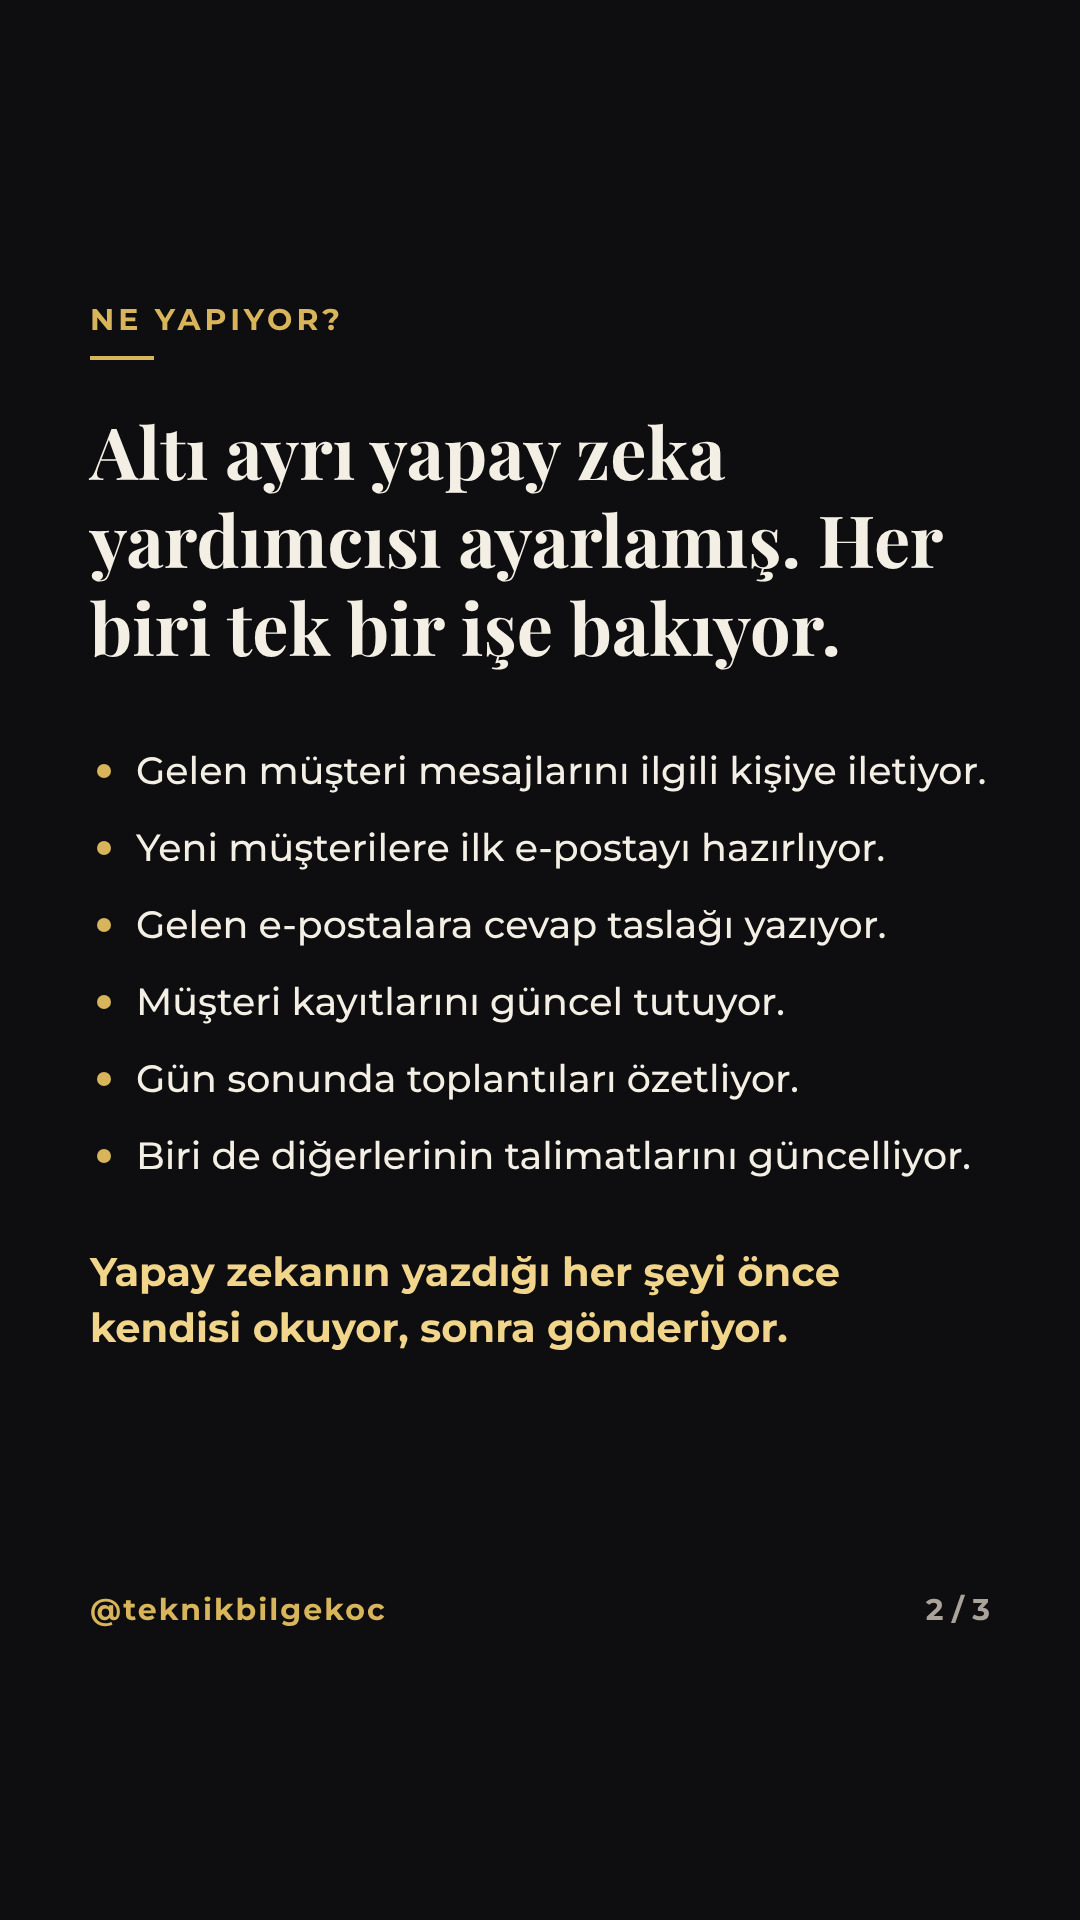
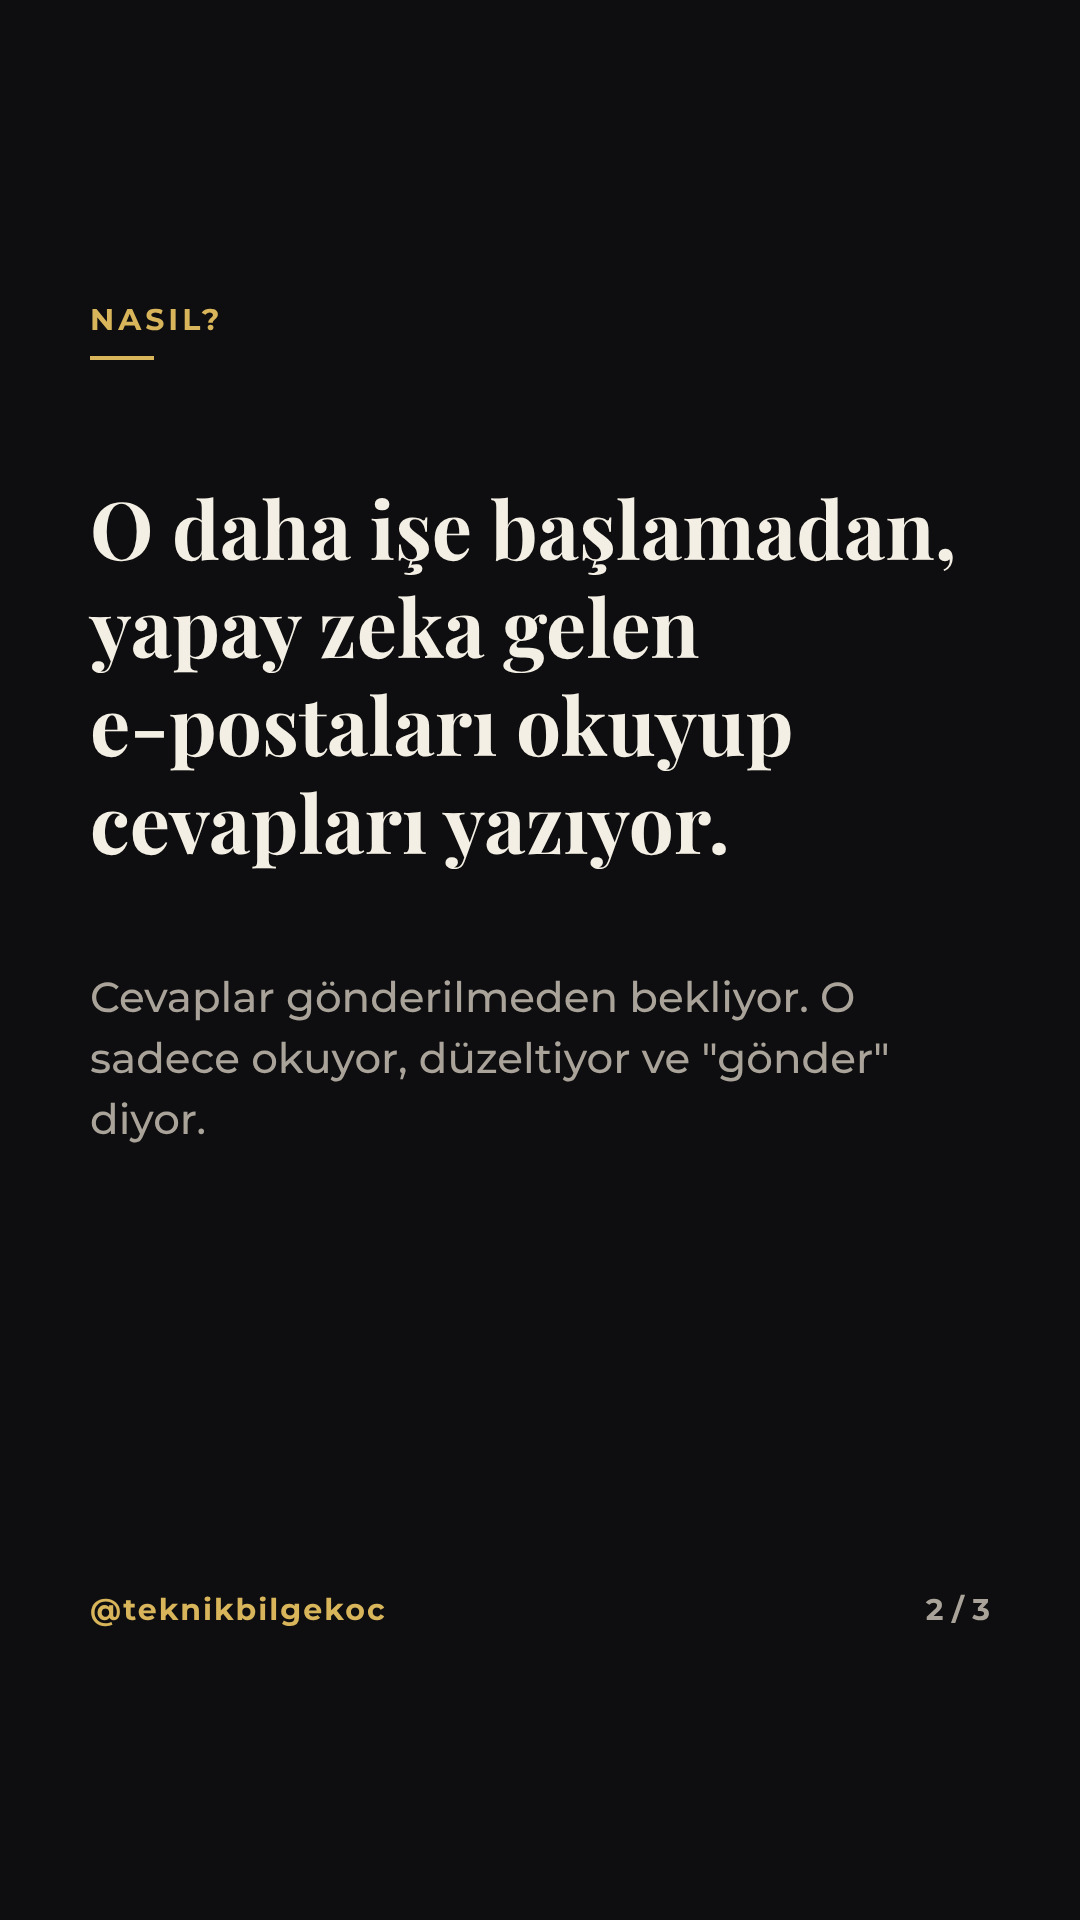
Hikâye denemesi 2. sürüm: kare başına tek fikir, görsel ve liste yok
Claude-Session: https://claude.ai/code/session_01JFwWeH33W4M7iAanRYpxoH

Changed region(s): [[0.0611, 0.2188, 0.8861, 0.625], [0.0917, 0.6562, 0.7944, 0.7188], [0.1222, 0.1562, 0.3056, 0.1875]]

diff --git a/2026-10-18-hikaye-deneme/h3.js b/2026-10-18-hikaye-deneme/h3.js
@@ -1,9 +1,9 @@
 async function build() {
-  await fontsReady(); sayfa('SENİN İŞİNE YARAR MI?', '3 / 3');
-  let y = baslik('Yazılımcı değil, yine de kendisi ayarlamış.', 480);
-  y = para('Ama kolay olmamış. Yazılanlar istediği gibi olana kadar yüzlerce kez düzeltmiş, bazı adımlar teknik bilgi istemiş. Sistem hâlâ deneme sürümünde.', 90, y + 50, { size: 40, color: C.muted, lh: 1.45 });
-  el('rect', { x: 90, y: y + 80, width: 900, height: 300, rx: 28, fill: C.card, stroke: C.gold, 'stroke-width': 2 });
-  para('Sen hangi işini yapay zekaya bırakmak isterdin? Yaz bana.', 140, y + 190, { font: 'Playfair Display', weight: 700, italic: true, size: 56, color: C.goldHi, width: 800, lh: 1.25 });
+  await fontsReady(); sayfa('SANA NE?', '3 / 3');
+  let y = baslik('E-postalara cevap yazmak senin de saatini alıyorsa, bu iş yapay zekaya bırakılabiliyor.', 560, { size: 72 });
+  y = para('Ama kurmak henüz kolay değil, biraz teknik bilgi istiyor.', 90, y + 50, { size: 42, color: C.muted, lh: 1.45 });
+  el('rect', { x: 90, y: y + 70, width: 900, height: 230, rx: 28, fill: C.card, stroke: C.gold, 'stroke-width': 2 });
+  para('Sen hangi işini yapay zekaya bırakırdın? Yaz bana.', 140, y + 165, { font: 'Playfair Display', weight: 700, italic: true, size: 54, color: C.goldHi, width: 800, lh: 1.25 });
   done();
 }
 build();

diff --git a/2026-10-18-hikaye-deneme/h2.js b/2026-10-18-hikaye-deneme/h2.js
@@ -1,10 +1,7 @@
 async function build() {
-  await fontsReady(); sayfa('NE YAPIYOR?', '2 / 3');
-  let y = baslik('Altı ayrı yapay zeka yardımcısı ayarlamış. Her biri tek bir işe bakıyor.', 480);
-  y += 40;
-  ['Gelen müşteri mesajlarını ilgili kişiye iletiyor.', 'Yeni müşterilere ilk e-postayı hazırlıyor.', 'Gelen e-postalara cevap taslağı yazıyor.', 'Müşteri kayıtlarını güncel tutuyor.', 'Gün sonunda toplantıları özetliyor.', 'Biri de diğerlerinin talimatlarını güncelliyor.']
-    .forEach(m => { el('circle', { cx: 104, cy: y - 13, r: 7, fill: C.gold }); y = para(m, 136, y, { size: 38, lh: 1.35, width: 854 }) + 26; });
-  para('Yapay zekanın yazdığı her şeyi önce kendisi okuyor, sonra gönderiyor.', 90, y + 40, { size: 40, weight: 700, color: C.goldHi, lh: 1.4 });
+  await fontsReady(); sayfa('NASIL?', '2 / 3');
+  const y = baslik('O daha işe başlamadan, yapay zeka gelen e-postaları okuyup cevapları yazıyor.', 560, { size: 80 });
+  para('Cevaplar gönderilmeden bekliyor. O sadece okuyor, düzeltiyor ve "gönder" diyor.', 90, y + 60, { size: 42, color: C.muted, lh: 1.45 });
   done();
 }
 build();

diff --git a/2026-10-18-hikaye-deneme/h1.js b/2026-10-18-hikaye-deneme/h1.js
@@ -1,8 +1,7 @@
 async function build() {
-  await fontsReady(); sayfa('YAPAY ZEKA HABERİ · 16 EKİM', '1 / 3');
-  let y = baslik('Claude\'u yapan şirkette çalışan bir satışçı, her gün tekrar eden işlerini artık Claude\'a yaptırıyor.', 520);
-  y = para('Şirketin Japonya\'daki satış ekibinden biri, gününü nasıl geçirdiğini kendisi anlattı.', 90, y + 50, { size: 40, color: C.muted, lh: 1.45 });
-  gorsel('hikaye-gorsel.png', 90, y + 70, 900, 145, 'Claude\'un yazdığı e-posta cevabı. Satışçı okuyup onaylamadan gitmiyor. Görsel: Anthropic');
+  await fontsReady(); sayfa('YAPAY ZEKA HABERİ', '1 / 3');
+  const y = baslik('Bir satışçı, her sabah yaptığı e-posta işini artık yapay zekaya yaptırıyor.', 560, { size: 80 });
+  para('Claude\'u yapan Anthropic şirketinde çalışıyor. Bunu kendisi anlattı.', 90, y + 60, { size: 42, color: C.muted, lh: 1.45 });
   done();
 }
 build();

diff --git a/2026-10-18-hikaye-deneme/notlar.md b/2026-10-18-hikaye-deneme/notlar.md
@@ -6,3 +6,7 @@ Bilge'nin isteği: kapak yok, son derece sade, sadece haber veren 3 karelik Inst
 - Görsel: aynı sayfadaki resmi görsel (https://assets.claude.com/209fde33711300fd8cfb2f1fc7005f21bca2a20d.png), yüz içermeyen konu satırı kırpıldı.
 - Okur kontrolü yapıldı, işaretlenen satırlar düzeltildi.
 - Dikkat: haber 16 Ekim tarihli, 48 saat sınırını aşıyor; yayınlanacaksa "KAÇIRDIYSANIZ" etiketi gerekir. Windsor ile atılan hikâyeye yazı/link/anket eklenemez; "Yaz bana" çağrısı hikâye cevaplarıyla çalışır.
+
+## 2. sürüm (Bilge: "gönderiden hiçbir şey anlamadım")
+İlk sürümde altı ayrı asistan, İngilizce ekran görüntüsü, satış terimleri ve çekinceler bir araya gelince ana fikir kayboldu. 2. sürümde kare başına tek fikir var: ne oldu / nasıl / sana ne. Görsel ve maddeli liste yok, büyük yazı kullanıldı, ayrıntılar atıldı.
+Ders: hikâyede her kare tek cümleyle anlaşılmalı; okur haberi bilmeden, bir arkadaşına anlatır gibi.
